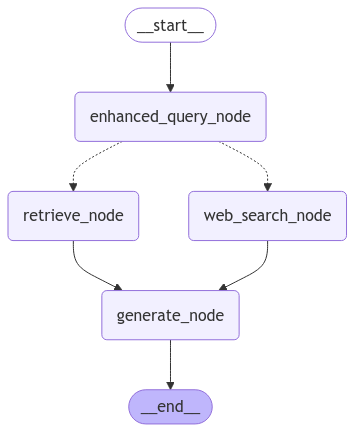
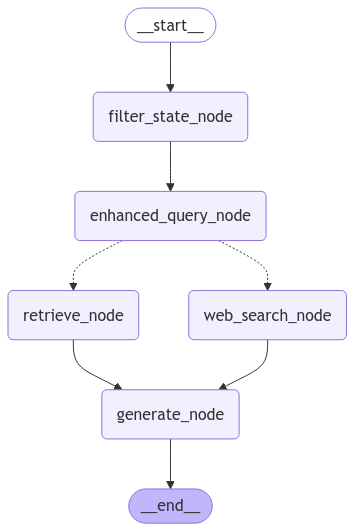
refactor(graph): add filter_state_node for managing execution times and chat history

diff --git a/app/graph/graph.py b/app/graph/graph.py
@@ -1,15 +1,17 @@
 import sqlite3
 from dotenv import load_dotenv, find_dotenv
-from langgraph.graph import END, START, StateGraph
+from langgraph.graph import START, END, StateGraph
 from langgraph.checkpoint.sqlite import SqliteSaver
 from app.graph.state import GraphInputState, GraphOutputState, GraphState
 from app.graph.consts import (
+    FILTER_STATE_NODE,
     ENHANCED_QUERY_NODE,
     RETRIEVE_NODE,
     WEB_SEARCH_NODE,
     GENERATE_NODE,
 )
 from app.graph.nodes import (
+    filter_state_node,
     generate_enhanced_query_node,
     web_search_node,
     retrieve_documents_node,
@@ -37,25 +39,27 @@ def route_question(state: GraphState) -> str:
         return RETRIEVE_NODE
 
 
-# Create the workflow without the SQLite connection
-workflow = StateGraph(GraphState, input=GraphInputState, output=GraphOutputState)
+# Create the builder without the SQLite connection
+builder = StateGraph(GraphState, input=GraphInputState, output=GraphOutputState)
 
 # Node Definition
-workflow.add_node(ENHANCED_QUERY_NODE, generate_enhanced_query_node)
-workflow.add_node(RETRIEVE_NODE, retrieve_documents_node)
-workflow.add_node(WEB_SEARCH_NODE, web_search_node)
-workflow.add_node(GENERATE_NODE, generate_node)
+builder.add_node(FILTER_STATE_NODE, filter_state_node)
+builder.add_node(ENHANCED_QUERY_NODE, generate_enhanced_query_node)
+builder.add_node(RETRIEVE_NODE, retrieve_documents_node)
+builder.add_node(WEB_SEARCH_NODE, web_search_node)
+builder.add_node(GENERATE_NODE, generate_node)
 
 # Graph flow
-workflow.set_entry_point(ENHANCED_QUERY_NODE)
-workflow.add_conditional_edges(
+builder.add_edge(START, FILTER_STATE_NODE)
+builder.add_edge(FILTER_STATE_NODE, ENHANCED_QUERY_NODE)
+builder.add_conditional_edges(
     ENHANCED_QUERY_NODE,
     route_question,
     path_map={WEB_SEARCH_NODE: WEB_SEARCH_NODE, RETRIEVE_NODE: RETRIEVE_NODE},
 )
-workflow.add_edge(RETRIEVE_NODE, GENERATE_NODE)
-workflow.add_edge(WEB_SEARCH_NODE, GENERATE_NODE)
-workflow.add_edge(GENERATE_NODE, END)
+builder.add_edge(RETRIEVE_NODE, GENERATE_NODE)
+builder.add_edge(WEB_SEARCH_NODE, GENERATE_NODE)
+builder.add_edge(GENERATE_NODE, END)
 
 
 # Create a function to get a new graph instance with its own SQLite connection
@@ -63,7 +67,7 @@ def get_graph_instance():
     conn = sqlite3.connect("checkpoints.sqlite", check_same_thread=False)
     memory = SqliteSaver(conn)
     memory.setup()
-    graph = workflow.compile(checkpointer=memory)
+    graph = builder.compile(checkpointer=memory)
     return graph
 
 

diff --git a/app/graph/nodes/filter_state_node.py b/app/graph/nodes/filter_state_node.py
@@ -1,0 +1,20 @@
+from langchain_core.messages import RemoveMessage
+from app.graph.state import GraphState
+from app.graph.utils.time import track_execution_time
+
+
+@track_execution_time
+def filter_state_node(state: GraphState):
+    # Clear all keys from execution_times
+    for key in list(state.execution_times.keys()):
+        del state.execution_times[key]
+
+    # Delete all but the 2 most recent messages
+    delete_messages = [RemoveMessage(id=m.id) for m in state.chat_history[:-2]]
+
+    return {
+        "documents": [],
+        "generation": "",
+        "execution_times": state.execution_times,
+        "chat_history": delete_messages,
+    }

diff --git a/app/graph/nodes/__init__.py b/app/graph/nodes/__init__.py
@@ -1,9 +1,11 @@
+from app.graph.nodes.filter_state_node import filter_state_node
 from app.graph.nodes.generate_enhanced_query_node import generate_enhanced_query_node
 from app.graph.nodes.retrieve_documents_node import retrieve_documents_node
 from app.graph.nodes.web_search_node import web_search_node
 from app.graph.nodes.generate_node import generate_node
 
 __all__ = [
+    "filter_state_node",
     "generate_enhanced_query_node",
     "retrieve_documents_node",
     "web_search_node",

diff --git a/app/graph/nodes/generate_enhanced_query_node.py b/app/graph/nodes/generate_enhanced_query_node.py
@@ -48,13 +48,6 @@ def generate_enhanced_query_node(state: GraphState) -> GraphState:
         {"question": state.question, "chat_history": state.chat_history or []}
     )
 
-    # Clear all keys from execution_times
-    for key in list(state.execution_times.keys()):
-        del state.execution_times[key]
-
     return {
         "enhanced_query": enhanced_query,
-        "documents": [],
-        "generation": "",
-        "execution_times": state.execution_times,
     }

diff --git a/app/graph/consts.py b/app/graph/consts.py
@@ -1,4 +1,5 @@
 INDEX_NAME = "langchain-doc-index-unstructured"
+FILTER_STATE_NODE = "filter_state_node"
 ENHANCED_QUERY_NODE = "enhanced_query_node"
 RETRIEVE_NODE = "retrieve_node"
 WEB_SEARCH_NODE = "web_search_node"
